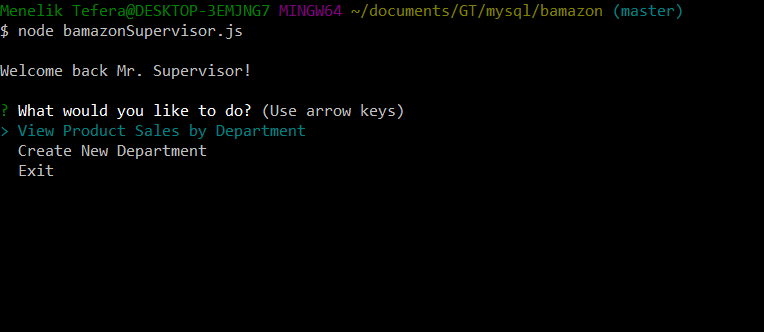
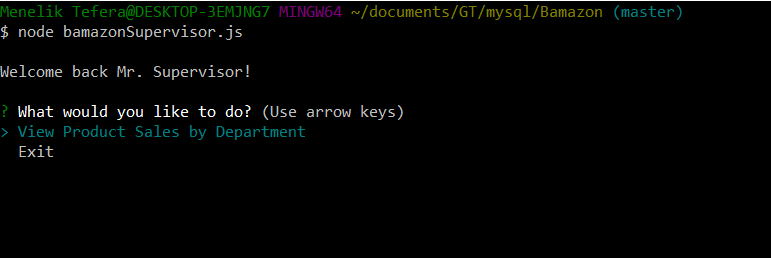
updated the add product and delete product features so that both the products and departments tables are updated

Changed region(s): [[0.0, 0.186, 0.5419, 0.6202], [0.0, 0.0, 1.0, 0.155]]

diff --git a/bamazonManager.js b/bamazonManager.js
@@ -10,8 +10,6 @@ var idContainer = [];
 var itemId = "";
 var itemIndex = "";
 var item = "";
-var stock = 0;
-var newQty = 0;
 require("console.table");
 
 var connection = mysql.createConnection({
@@ -147,7 +145,7 @@ function enterAmount(){
               console.log("Please enter a valid item_id");
               return enterAmount();
             } else {
-              console.log("\n\r" + res.affectedRows + " products updated!\n");
+              console.log("\n\r" + res.affectedRows + " product(s) updated!\n");
               menuOptions();
             }
           }
@@ -171,27 +169,39 @@ function addNewProduct() {
   }, {
     name: "stock_quantity",
     message: "PLease enter the stock_quantity:"
+  }, {
+    name: "over_head_costs",
+    message: "PLease enter the over_head_cost:"
   }
   ]).then(function(answers) {
     var productName = answers.product_name;
     var departmentName = answers.department_name;
     var Price = answers.price;
     var stockQuantity = answers.stock_quantity;
-    connection.query("SELECT * FROM products", function(err, res) {
-      connection.query(
-        "INSERT INTO products SET ?",
-        {
-          product_name: productName,
-          department_name: departmentName,
-          price: Price,
-          stock_quantity: stockQuantity
-        },
-        function(err, res) {
-          console.log("\n\r" + res.affectedRows + " product inserted!\n");
-          menuOptions();
-        }
-      );
-    })
+    var overHeadCost = answers.over_head_costs;
+      connection.query("SELECT * FROM products", function(err, res) {
+        connection.query(
+          "INSERT INTO products SET ?",
+          {
+            product_name: productName,
+            department_name: departmentName,
+            price: Price,
+            stock_quantity: stockQuantity,
+            product_sales: 0
+          }
+        );
+        connection.query(
+          "INSERT INTO departments SET ?",
+          {
+            department_name: productName,
+            over_head_costs: overHeadCost
+          },
+          function(err, res) {
+            console.log("\n" + res.affectedRows + " product(s) inserted in the products and departments tables!\n");
+            menuOptions();
+          }
+        );
+      })
   })
 }
 
@@ -235,12 +245,20 @@ function deleteAProduct() {
             "DELETE FROM products WHERE ?",
             {
               item_id: res[itemIndex].item_id
-            },
-            function(err, res) {
-              console.log("\n\r" + res.affectedRows + " products updated!\n");
-              menuOptions();
             }
           );
+          connection.query("SELECT * FROM departments", function(err, res) {
+            connection.query(
+              "DELETE FROM departments WHERE ?",
+              {
+                department_id: res[itemIndex].department_id
+              },
+              function(err, res) {
+                console.log("\n\r" + res.affectedRows + " product(s) updated in the products and departments tables!\n");
+                menuOptions();
+              }
+            );
+          })
         } else {
           console.log("\n\rPlease enter a valid item_id\n\r");
           return deleteAProduct();

diff --git a/bamazonSupervisor.js b/bamazonSupervisor.js
@@ -36,7 +36,7 @@ connection.connect(function(err) {
 
 
 function ViewProductSalesByDepartment() {
-
+  console.log("\r");
   connection.query("SELECT departments.department_id, departments.department_name, departments.over_head_costs, products.product_sales FROM departments INNER JOIN products ON departments.department_id=products.item_id", 
   function(err, res) {
     if (err) throw err;
@@ -64,7 +64,7 @@ function menuOptions() {
       name: "menuOptions",
       type: "list",
       message: "What would you like to do?",
-      choices: ["View Product Sales by Department", "Create New Department","Exit"]
+      choices: ["View Product Sales by Department", "Exit"]
     })
     .then(function(input) {
       switch (input.menuOptions) {
@@ -74,14 +74,8 @@ function menuOptions() {
           ViewProductSalesByDepartment();
           break;
 
-        case "Create New Department":
-          result = [];
-          console.log("\n\rNothing specified for this feature in the homework assignment instructions...\n\r");
-          menuOptions();
-          break;
-
         case "Exit":
-          console.log("\n\rThanks for visiting Bamazon!")
+          console.log("\nThanks for visiting Bamazon!")
           connection.end();
           return;
           break;

diff --git a/README.md b/README.md
@@ -1,11 +1,15 @@
 A `CLI` commerce app that is cool and easy to use.  `mySQL and Node.js` were the tools of choice.  The app provides a hassle-free shopping experience to the customer, and allows the Manager to gain easy access to his inventory and edit as needed.
 
+Our database has two tables:
+1. `products` will be used to display available items to the customer, as well as products for sale to the Manager.
+2. `departments` will be used to display products for sale to the Supervisor. 
+
 
 ## Bamazon Customer
 
 ###### At Startup
 
-When the customer launches the app, he/she will be given the option to choose from a list of available items:
+When the customer launches the app, he/she will be given the option to choose from a list of available items pulled from the `products` table:
 
 ![Image of Customer View Initial Screen](https://menelik7.github.io/Bamazon/images/CustomerView1.PNG "Customer View Initial Screen")
 
@@ -69,13 +73,13 @@ If the Manager decides to add to the current inventory, he will be prompted to e
 
 ###### Add New Product
 		
-To add a new product, the Manager will be prompted to enter a series of information including `product_name`, `department_name`, `price`, and `stock_quantity`.  Once the information has been entered, the system will update the inventory with the new product.  The Manager can then choose the `Products for Sale` option from the menu to confirm that the task was successfully carried out:
+To add a new product, the Manager will be prompted to enter a series of information including `product_name`, `department_name`, `price`, `stock_quantity`, and `over_head_costs`.  Once the information has been entered, the system will update both tables with the new product.  The Manager can then choose the `Products for Sale` option from the menu to confirm that the task was successfully carried out:
 
 ![Image of Add New Product](https://menelik7.github.io/Bamazon/images/ManagerView6.PNG "Add New Product")
 
 ###### Delete a Product
 		
-To delete a product, the Manager will be prompted to enter the `item_id` of the product.  If the entry was valid, the system will remove the corresponding product.  The Manager can then chose the `Products for Sale` option from the menu to confirm that the task was successfully carried out:
+To delete a product, the Manager will be prompted to enter the `item_id` of the product.  If the entry was valid, the system will remove the corresponding product from both tables.  The Manager can then chose the `Products for Sale` option from the menu to confirm that the task was successfully carried out:
 
 ![Image of Delete a Product](https://menelik7.github.io/Bamazon/images/ManagerView7.PNG "Delete a Product")
 
@@ -106,11 +110,6 @@ If the Supervisor choses to view the product sales, the app joins the entire `de
 ![Image of Products Database View](https://menelik7.github.io/Bamazon/images/productsDatabase.PNG "Products Database View")
 ![Image of Supervisor Product Sales View](https://menelik7.github.io/Bamazon/images/SupervisorView2.PNG "Supervisor Product Sales View")
 
-###### Create New Department
-
-Nothing was specified in the homework assignment for this menu option...
-
-![Image of New Department View](https://menelik7.github.io/Bamazon/images/NothingSpecified.PNG "Create New Department View")
 
 ## Copyright
 
